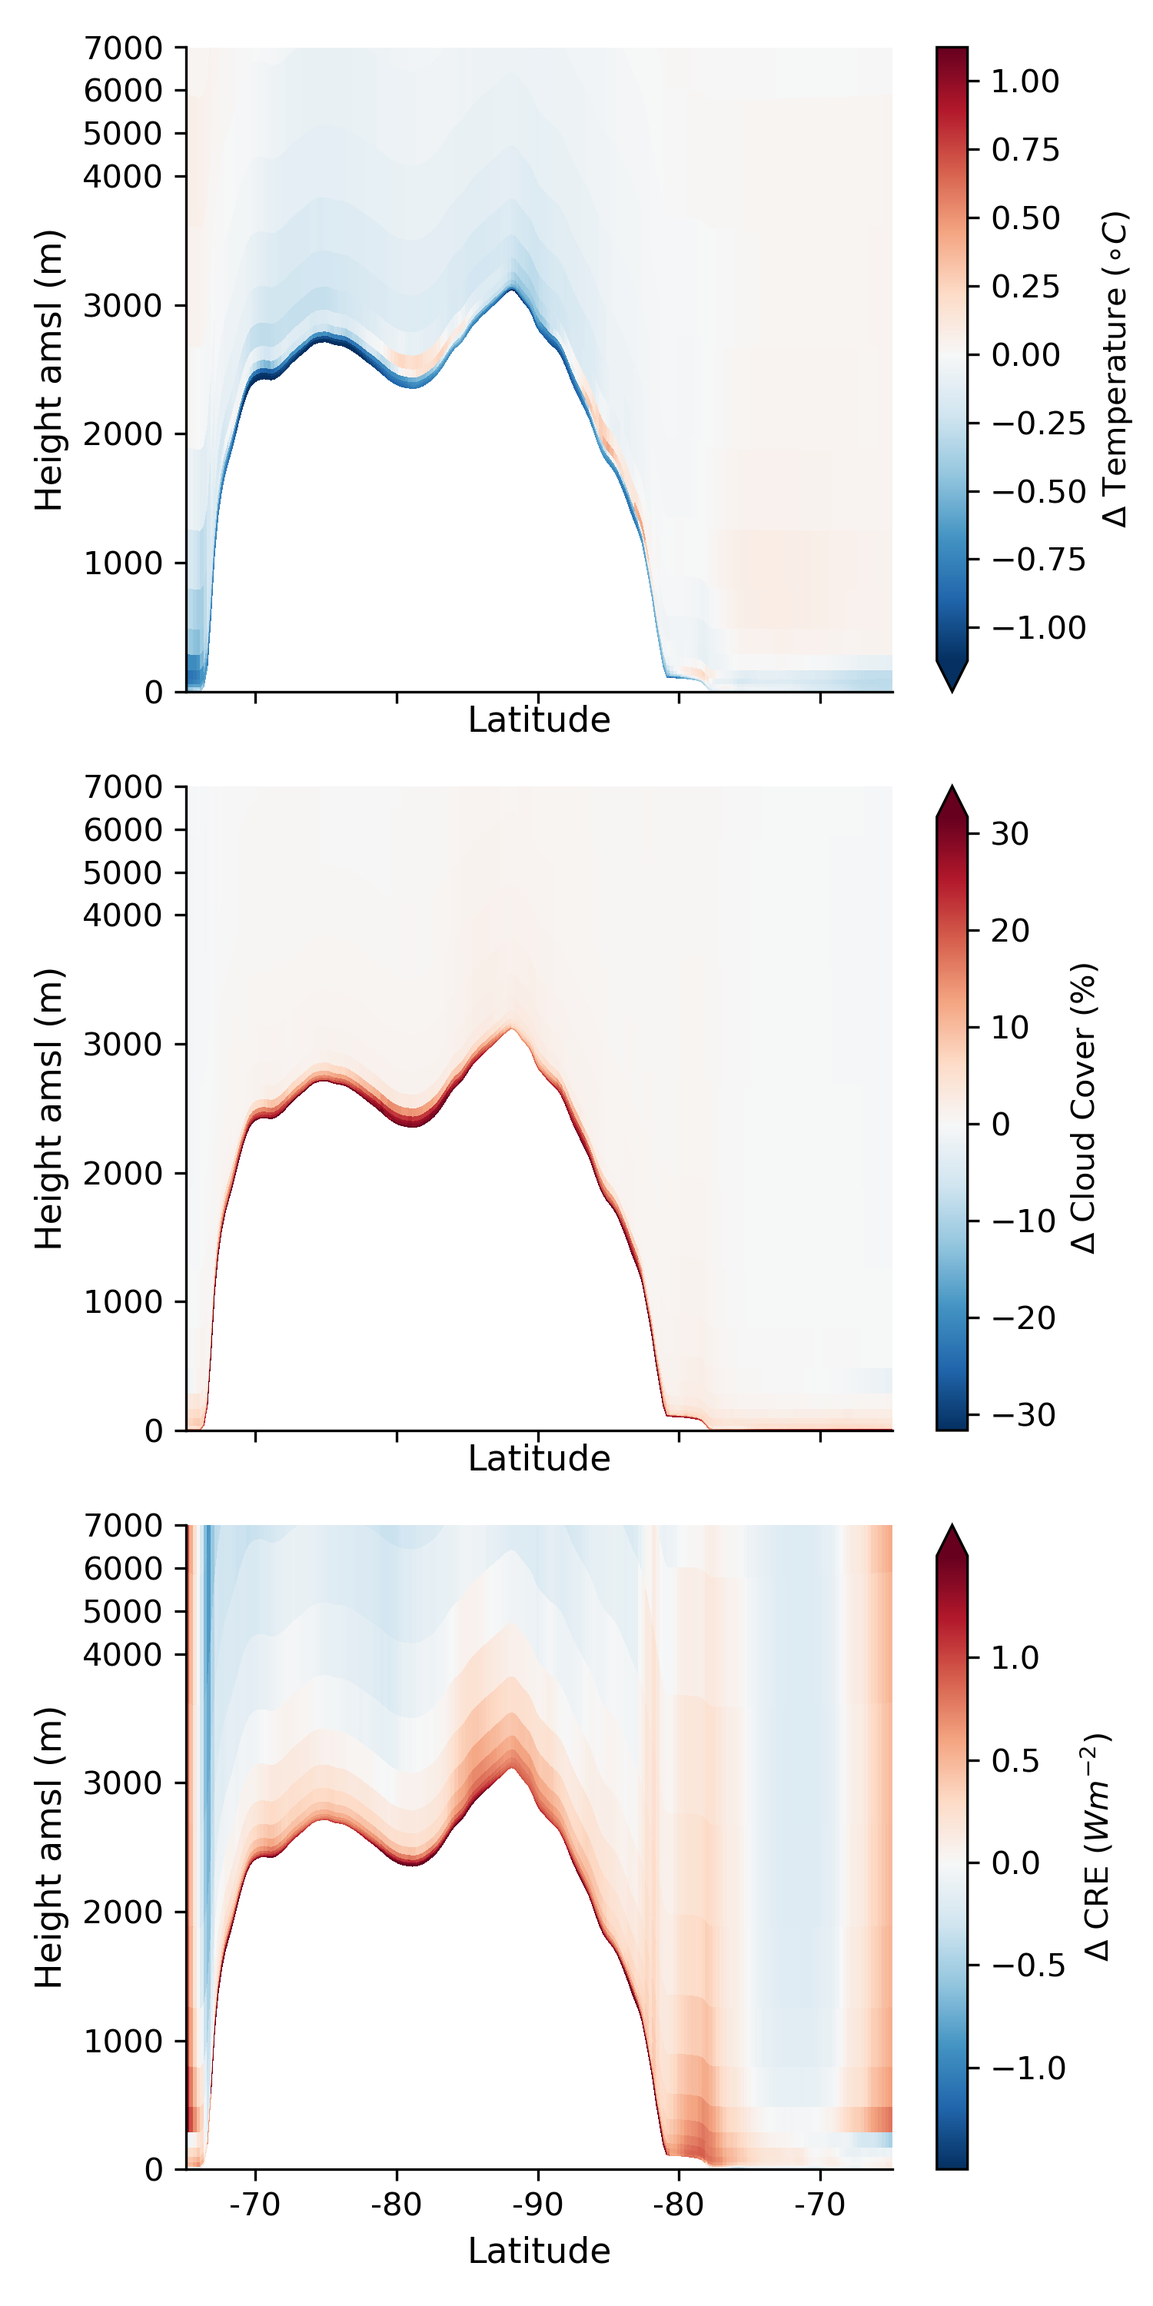
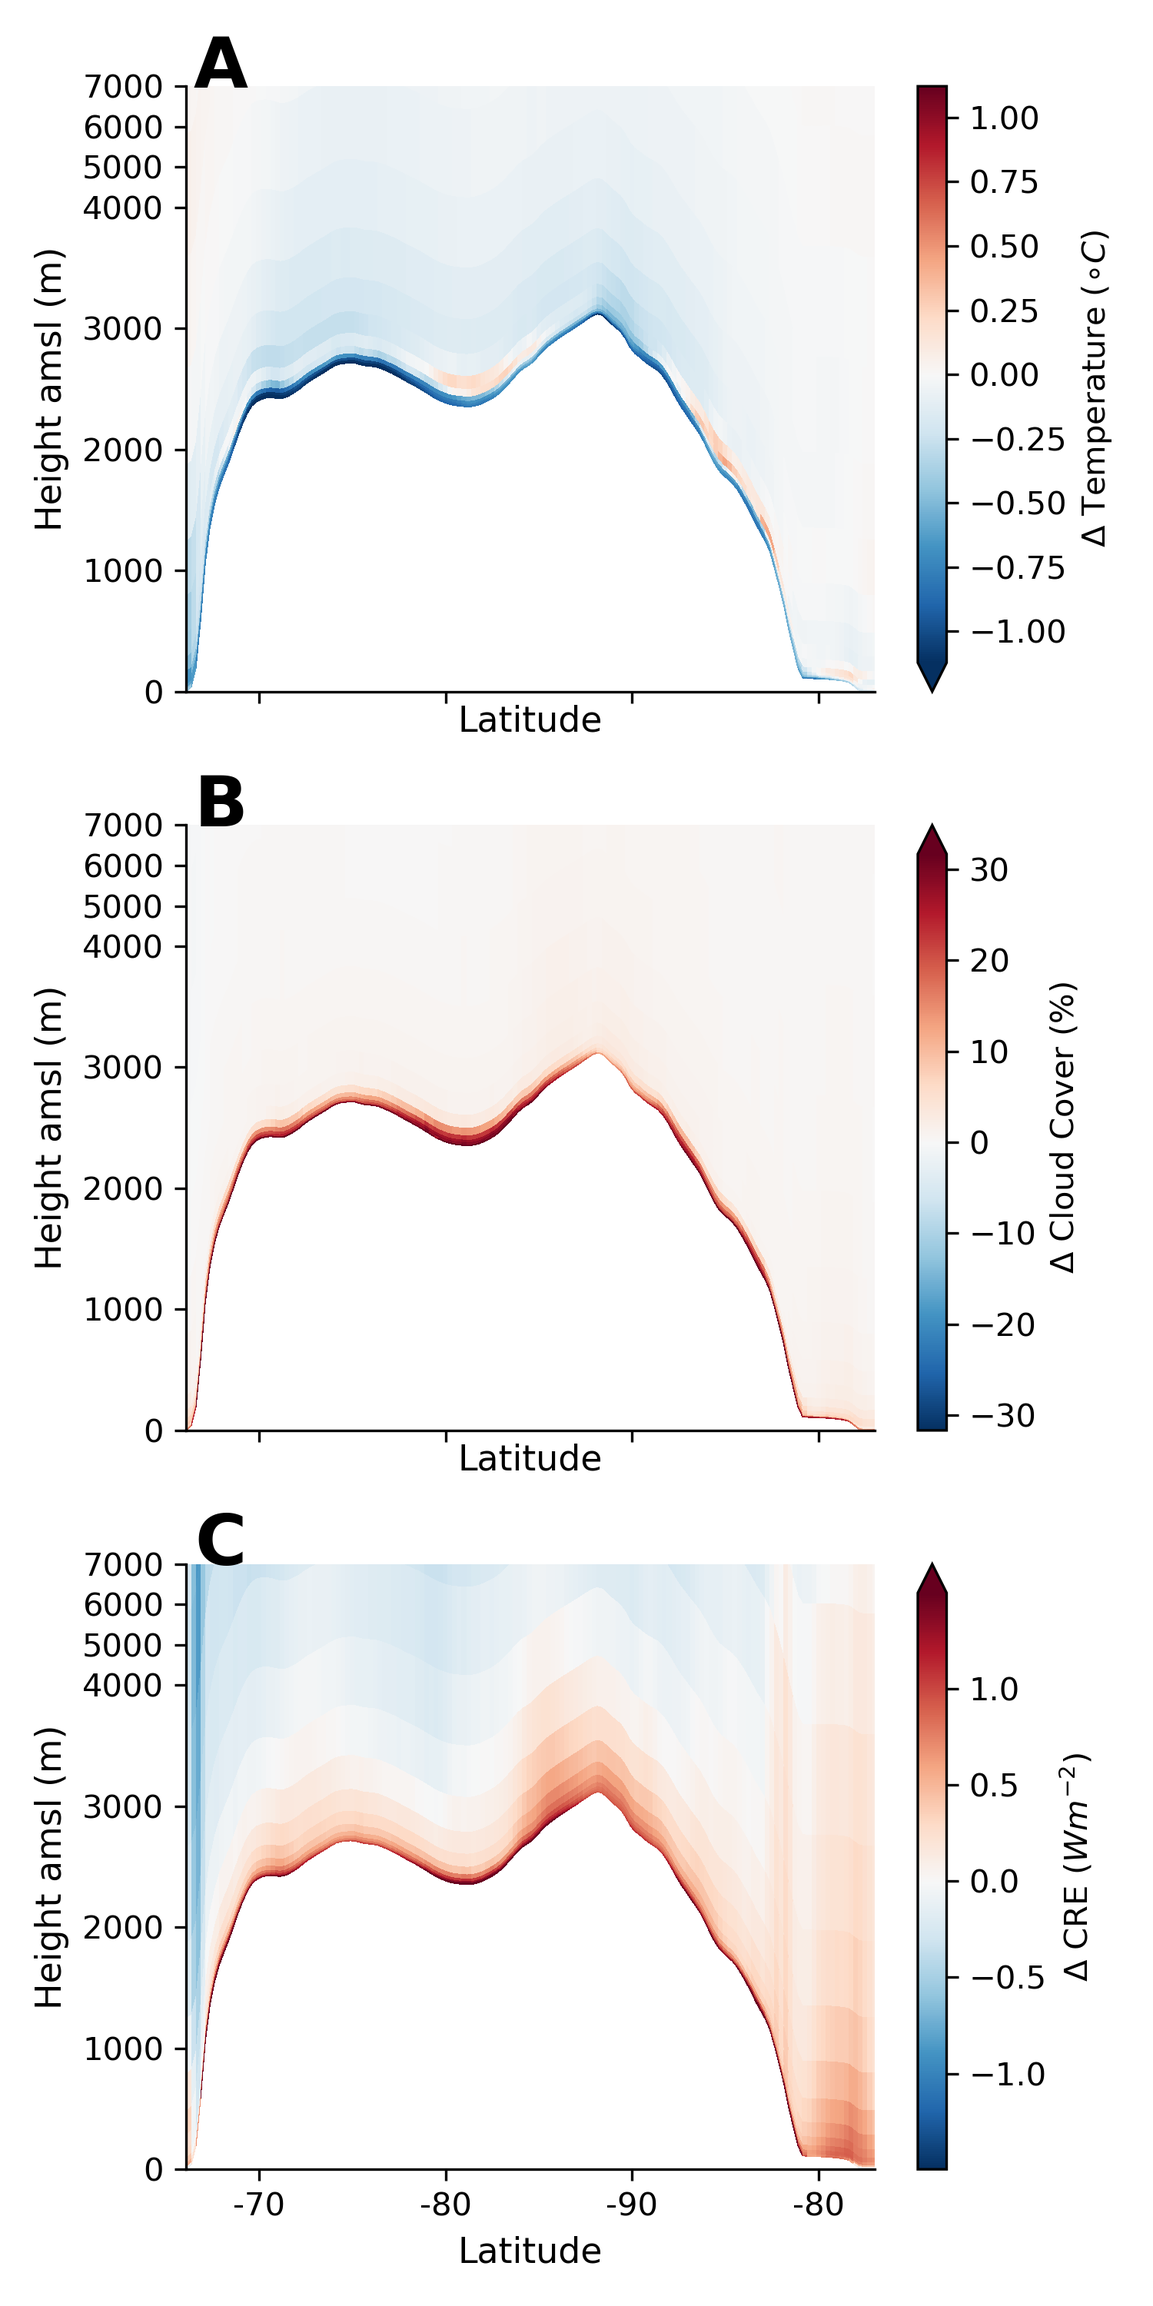
FINAL ANALYSIS

diff --git a/Fig4/2d_microph.py b/Fig4/2d_microph.py
@@ -12,6 +12,9 @@ import matplotlib.path as mpath
 
 import cartopy.feature as feat
 
+#    xr.plot.contour(ground, levels=1, colors='black', linewidths=0.2)
+#    xr.plot.contour(ds_grid.SOL, levels=1, colors='black', linewidths=0.2)
+
 # file_str = '/uio/lagringshotell/geofag/projects/miphclac/shofer/MAR/case_study_BS_2009/'
 # file_str = '/home/shofer/Dropbox/Academic/Data/Blowing_snow/'
 # file_str = '/home/sh16450/Dropbox/Academic/Data/Blowing_snow/'
@@ -66,6 +69,7 @@ ds_grid = xr.Dataset({'RIGNOT': (['y', 'x'], MAR_grid.RIGNOT.values),
                       'ICE': (['y', 'x'], MAR_grid.ICE.values),
                       'AIS': (['y', 'x'], MAR_grid.AIS.values),
                       'GROUND': (['y', 'x'], MAR_grid.GROUND.values),
+                      'SOL': (['y', 'x'], MAR_grid.SOL.values),
                       'AREA': (['y', 'x'], MAR_grid.AREA.values),
                       'ROCK': (['y', 'x'], MAR_grid.ROCK.values)},
                      coords={'x': (['x'], ds_nobs_CC.X),
@@ -97,13 +101,13 @@ dh = (ds_grid['x'].values[0] - ds_grid['x'].values[1]) / 2.
 
 
 diff_CC = (ds_bs_CC - ds_nobs_CC).rename(
-    {'X': 'x', 'Y': 'y'}).isel(x=slice(10, -10), y=slice(10, -10))
+    {'X': 'x', 'Y': 'y'}).where((ground > 0) | (shelf > 0)).isel(x=slice(10, -10), y=slice(10, -10))
 diff_COD = (ds_bs_COD - ds_nobs_COD).rename(
-    {'X': 'x', 'Y': 'y'}).isel(x=slice(10, -10), y=slice(10, -10))
+    {'X': 'x', 'Y': 'y'}).where((ground > 0) | (shelf > 0)).isel(x=slice(10, -10), y=slice(10, -10))
 diff_IWP = (ds_bs_IWP - ds_nobs_IWP).rename(
-    {'X': 'x', 'Y': 'y'}).isel(x=slice(10, -10), y=slice(10, -10))
+    {'X': 'x', 'Y': 'y'}).where((ground > 0) | (shelf > 0)).isel(x=slice(10, -10), y=slice(10, -10))
 diff_LWP = (ds_bs_LWP - ds_nobs_LWP).rename(
-    {'X': 'x', 'Y': 'y'}).isel(x=slice(10, -10), y=slice(10, -10))
+    {'X': 'x', 'Y': 'y'}).where((ground > 0) | (shelf > 0)).isel(x=slice(10, -10), y=slice(10, -10))
 
 # Weighted by difference in Cloud cover bc values are just monthly means
 diff_weighted_LWP = diff_LWP.CWP - (diff_CC.CC * diff_LWP.CWP)
@@ -155,7 +159,37 @@ CC_three = diff_CC.CC.where((ais == 0) & (shelf == 0)).mean() * 100
 print('{}: Grounded={:.2f}, Shelves={:.2f}, Ocean={:.2f}'.format(
     'CC', CC_one.values, CC_two.values, CC_three.values))
 
-# oh no I think I do .sum of var*grd_msk.values*35*35 and then divide it by the grounded area (in km2)
+
+# Print average and std for mean of absolute values
+mean_COD = ds_bs_COD.COD.rename(
+    {'X': 'x', 'Y': 'y'}).where((ground > 0) | (shelf > 0)).mean()
+mean_IWP = (ds_bs_IWP.IWP.rename(
+    {'X': 'x', 'Y': 'y'}).where((ground > 0) | (shelf > 0)).mean()) * 1000
+mean_LWP = (ds_bs_LWP.CWP.rename(
+    {'X': 'x', 'Y': 'y'}).where((ground > 0) | (shelf > 0)).mean()) * 1000
+
+print('{}: COD={:.2f}, IWP={:.2f}, LWP={:.2f}'.format(
+    'Means over shelf+ground', mean_COD.values, mean_IWP.values, mean_LWP.values))
+# Print average and std for mean of absolute values
+mean_COD_ = ds_bs_COD.COD.rename(
+    {'X': 'x', 'Y': 'y'}).where(ground == 1).mean()
+mean_IWP_ = (ds_bs_IWP.IWP.rename(
+    {'X': 'x', 'Y': 'y'}).where(ground == 1).mean()) * 1000
+mean_LWP_ = (ds_bs_LWP.CWP.rename(
+    {'X': 'x', 'Y': 'y'}).where(ground == 1).mean()) * 1000
+
+print('{}: COD={:.2f}, IWP={:.2f}, LWP={:.2f}'.format(
+    'Means over ground', mean_COD_.values, mean_IWP_.values, mean_LWP_.values))
+
+mean_COD = ds_bs_COD.COD.rename(
+    {'X': 'x', 'Y': 'y'}).where(shelf == 1).mean()
+mean_IWP = (ds_bs_IWP.IWP.rename(
+    {'X': 'x', 'Y': 'y'}).where(shelf == 1).mean()) * 1000
+mean_LWP = (ds_bs_LWP.CWP.rename(
+    {'X': 'x', 'Y': 'y'}).where(shelf == 1).mean()) * 1000
+
+print('{}: COD={:.2f}, IWP={:.2f}, LWP={:.2f}'.format(
+    'Means over shelves', mean_COD.values, mean_IWP.values, mean_LWP.values))
 
 
 def xymean(mvar2d, marea2d):
@@ -215,22 +249,22 @@ for i in range(4):
 
 # PLOT EVERYTHING
 
-(diff_CC.CC * 100).plot.pcolormesh('x', 'y', transform=proj, ax=ax1,
+(diff_CC.CC * 100).plot.pcolormesh('x', 'y', transform=proj, ax=ax1, cmap='RdBu_r',
                                    robust=True, cbar_kwargs={
                                        'label': r'$\Delta$ CC (%)', 'shrink': 1, 'orientation': 'horizontal',
-                                       'ticks': [-20, -10, 0, 10, 20], 'pad': 0.05, 'extend': 'both'})
-diff_weighted_COD.plot.pcolormesh('x', 'y', transform=proj, ax=ax2, robust=True, cbar_kwargs={
-                                  'label': r'$\Delta$ COD', 'shrink': 1, 'orientation': 'horizontal',
-                                  'pad': 0.05, 'fraction': 0.15, 'extend': 'both'})
+                                       'ticks': [-20, -10, 0, 10, 20], 'pad': 0.05, 'extend': 'both'}, vmin=-25, vmax=25)
+diff_weighted_COD.plot.pcolormesh('x', 'y', transform=proj, ax=ax2, robust=True, cmap='RdBu_r', cbar_kwargs={
+    'label': r'$\Delta$ COD', 'shrink': 1, 'orientation': 'horizontal',
+    'pad': 0.05, 'fraction': 0.15, 'extend': 'both'}, vmin=-0.02, vmax=0.02)
 
 (diff_weighted_LWP * 1000).plot.pcolormesh('x', 'y', transform=proj, ax=ax3,
                                            robust=True, cbar_kwargs={
                                                'label': r'$\Delta$ LWP (g/kg)', 'shrink': 1, 'orientation': 'horizontal',
-                                                'pad': 0.05, 'extend': 'both'})
-(diff_weighted_IWP * 1000).plot.pcolormesh('x', 'y', transform=proj, ax=ax4,
+                                               'pad': 0.05, 'extend': 'both'})
+(diff_weighted_IWP * 1000).plot.pcolormesh('x', 'y', transform=proj, ax=ax4, cmap='RdBu_r',
                                            robust=True, cbar_kwargs={
                                                'label': r'$\Delta$ IWP (g/kg)', 'shrink': 1, 'orientation': 'horizontal',
-                                                'pad': 0.05, 'extend': 'both'})
+                                               'pad': 0.05, 'extend': 'both'}, vmin=-25, vmax=25)
 #
 # cont = ax[0].pcolormesh(diff_CC['x'], diff_CC['y'],
 #                         (diff_CC.CC)*100,
@@ -246,8 +280,11 @@ diff_weighted_COD.plot.pcolormesh('x', 'y', transform=proj, ax=ax2, robust=True,
 #                          trend_CC.slope*30, transform=ccrs.PlateCarree(), vmin=-15, vmax=15, cmap='RdBu_r')
 letters = ['A', 'B', 'C', 'D']
 for i in range(4):
-    ax[i].add_feature(feat.COASTLINE.with_scale(
-        '50m'), zorder=1, edgecolor='black')
+    xr.plot.contour(ds_grid.SOL, levels=1, colors='black',
+                    linewidths=0.4, transform=proj, ax=ax[i])
+    xr.plot.contour(ground, levels=1, colors='black', linewidths=0.4, ax=ax[i])
+    # ax[i].add_feature(feat.COASTLINE.with_scale(
+    #    '50m'), zorder=1, edgecolor='black')
     ax[i].set_title(names[i], fontsize=16)
     ax[i].text(0.04, 1.02, letters[i], fontsize=22, va='center', ha='center',
                transform=ax[i].transAxes, fontdict={'weight': 'bold'})

diff --git a/clouds_calipso.py b/clouds_calipso.py
@@ -6,7 +6,10 @@ from scipy import stats
 import matplotlib.path as mpath
 import cartopy.crs as ccrs
 import cartopy.feature
+import matplotlib.gridspec as gridspec
 import xesmf as xe
+
+import cartopy.feature as feat
 
 # =========== LOAD ERA5, MAR_noBS, MAR_BS, Cloudsat =======================
 
@@ -60,9 +63,10 @@ ds_grid = xr.Dataset({'RIGNOT': (['y', 'x'], MAR_grid.RIGNOT.values),
                       'AIS': (['y', 'x'], MAR_grid.AIS.values),
                       'GROUND': (['y', 'x'], MAR_grid.GROUND.values),
                       'AREA': (['y', 'x'], MAR_grid.AREA.values),
+                      'SOL': (['y', 'x'], MAR_grid.SOL.values),
                       'ROCK': (['y', 'x'], MAR_grid.ROCK.values)},
-                     coords={'x': (['x'], ds_nobs_CC.x),
-                             'y': (['y'], ds_nobs_CC.y)})
+                     coords={'x': (['x'], ds_nobs_CC.x * 1000),
+                             'y': (['y'], ds_nobs_CC.y * 1000)})
 
 ais = ds_grid['AIS'].where(ds_grid)['AIS'] > 0  # Only AIS=1, other islands  =0
 # Ice where ICE mask >= 30% (ICE[0-100%], dividing by 100 in the next ligne)
@@ -85,18 +89,27 @@ sh = ds_grid['SH']
 
 dh = (ds_grid['x'].values[0] - ds_grid['x'].values[1]) / 2.
 
-
+msk = ds_grid['SOL'].where(ds_grid['SOL'] == 4)
 # =========== COMPUTE THE MEAN OVER THE SAME TIME PERIOD ==================
 BS = ds_bs_CC.mean(dim='TIME')
 # Add LAT LON to MAR data
 BS['lat'] = ds_grid.LAT
 BS['lon'] = ds_grid.LON
 BS['RIGNOT'] = ds_grid.RIGNOT.where(ds_grid.RIGNOT > 0)
+BS['shelf'] = shelf
+BS['ground'] = ground
+BS['msk'] = msk
+BS['SOL'] = ds_grid.SOL
+
 
 NOBS = ds_nobs_CC.mean(dim='TIME')
 NOBS['lat'] = ds_grid.LAT
 NOBS['lon'] = ds_grid.LON
 NOBS['RIGNOT'] = ds_grid.RIGNOT.where(ds_grid.RIGNOT > 0)
+NOBS['shelf'] = shelf
+NOBS['ground'] = ground
+NOBS['msk'] = msk
+NOBS['SOL'] = ds_grid.SOL
 
 
 ERA = cloud_data_ERA.mean(dim='time')
@@ -130,5 +143,89 @@ regrid_cloudsat = regridder_cloudsat(cloudsat.transpose())
 
 # ========== COMPUTE THE DIFFERENCES BETWEEN CLOUDSAT and ERA,MAR, MARBS ==
 
-diff_test = regrid_BS.CC - regrid_cloudsat
-diff_test_nobs = regrid_NOBS.CC - regrid_cloudsat
+diff_test = (regrid_BS.CC - regrid_cloudsat).where((regrid_BS.shelf > 0)
+                                                   | (regrid_BS.ground > 0))
+diff_test_nobs = (regrid_NOBS.CC - regrid_cloudsat).where((regrid_BS.shelf > 0)
+                                                          | (regrid_BS.ground > 0))
+diff_test_ERA = (regrid_ERA - regrid_cloudsat).where((regrid_BS.shelf > 0)
+                                                     | (regrid_BS.ground > 0))
+
+# ============ PLOTTING ROUTINE ========================
+# Plotting routines
+plt.close('all')
+proj = ccrs.SouthPolarStereo()
+fig = plt.figure(figsize=(14, 7))
+spec2 = gridspec.GridSpec(ncols=3, nrows=1, figure=fig)
+ax1 = fig.add_subplot(spec2[0, 0], projection=proj)
+ax2 = fig.add_subplot(spec2[0, 1], projection=proj)
+# plt.setp(ax2.get_yticklabels(), visible=False)
+ax3 = fig.add_subplot(spec2[0, 2], projection=proj)
+
+# PLOT EVERYTHING
+
+
+ax = [ax1, ax2, ax3]
+names = ['No Blowing Snow', 'Blowing Snow', 'ERA5']
+for i in range(3):
+    # Limit the map to -60 degrees latitude and below.
+    ax[i].set_extent([-180, 180, -90, -60], ccrs.PlateCarree())
+
+    ax[i].add_feature(feat.LAND)
+    # ax[i].add_feature(feat.OCEAN)
+
+    ax[i].gridlines()
+
+    # Compute a circle in axes coordinates, which we can use as a boundary
+    # for the map. We can pan/zoom as much as we like - the boundary will be
+    # permanently circular.
+    theta = np.linspace(0, 2 * np.pi, 100)
+    center, radius = [0.5, 0.5], 0.5
+    verts = np.vstack([np.sin(theta), np.cos(theta)]).T
+    circle = mpath.Path(verts * radius + center)
+
+    ax[i].set_boundary(circle, transform=ax[i].transAxes)
+
+cmap = 'YlGnBu_r'
+cont = ax[0].pcolormesh(diff_test_nobs['lon'], diff_test_nobs['lat'],
+                        diff_test_nobs,
+                        transform=ccrs.PlateCarree(), vmin=-1, vmax=1, cmap='RdBu_r')
+cont2 = ax[1].pcolormesh(diff_test['lon'], diff_test['lat'],
+                         diff_test,
+                         transform=ccrs.PlateCarree(), vmin=-1, vmax=1, cmap='RdBu_r')
+cont3 = ax[2].pcolormesh(diff_test_ERA['lon'], diff_test_ERA['lat'],
+                         diff_test_ERA, transform=ccrs.PlateCarree(), vmin=-1, vmax=1, cmap='RdBu_r')
+# cont2 = ax[1].pcolormesh(trend_CC['lon'], trend_CC['lat'],
+#                          trend_CC.slope*30, transform=ccrs.PlateCarree(), vmin=-15, vmax=15, cmap='RdBu_r')
+
+#    xr.plot.contour(ground, levels=1, colors='black', linewidths=0.2)
+#    xr.plot.contour('x','y',ds_grid.SOL, levels=1, colors='black', linewidths=0.2, ax=ax[1], transform=proj)
+
+letters = ['A', 'B', 'C']
+for i in range(3):
+    xr.plot.contour(ds_grid.SOL, levels=1, colors='black',
+                    linewidths=0.4, transform=proj, ax=ax[i])
+    xr.plot.contour(ground, levels=1, colors='black', linewidths=0.4, ax=ax[i])
+    # ax[i].add_feature(feat.COASTLINE.with_scale(
+    #    '50m'), zorder=1, edgecolor='black')
+
+    ax[i].set_title(names[i], fontsize=16)
+    ax[i].text(0.04, 1.02, letters[i], fontsize=22, va='center', ha='center',
+               transform=ax[i].transAxes, fontdict={'weight': 'bold'})
+# fig.canvas.draw()
+fig.tight_layout()
+
+cb = fig.colorbar(cont3, ax=ax, ticks=list(
+    np.arange(-1, 1.5, 0.2)), shrink=0.85, orientation='horizontal')
+cb.set_label('Cloud Cover Difference (%)', fontsize=16)
+cb.ax.tick_params(labelsize=11)
+
+plt.subplots_adjust(left=0.02, right=0.98, top=0.99, bottom=0.24)
+# fig.colorbar(cont2, ax=ax[1], ticks=list(
+#     np.arange(-15, 15.5, 3)), shrink=0.8)
+# cbar = fig.colorbar(cont, ax=ax, ticks=[0, 10, 20, 30, 40, 50, 60, 70, 80, 90, 100],
+#                    orientation = 'horizontal', fraction = 0.13, pad = 0.01, shrink = 0.8)
+# cbar.set_label(
+#    'Average DJF cloud cover 2002-2015 (%)', fontsize=18)
+
+fig.savefig('/projects/NS9600K/shofer/blowing_snow/Calipso_difference.png',
+            format='PNG', dpi=300)

diff --git a/Fig4/2d_SEB.py b/Fig4/2d_SEB.py
@@ -74,11 +74,12 @@ ds_grid = xr.Dataset({'RIGNOT': (['y', 'x'], MAR_grid.RIGNOT.values),
                       'LON': (['y', 'x'], MAR_grid.LON.values),
                       'ICE': (['y', 'x'], MAR_grid.ICE.values),
                       'AIS': (['y', 'x'], MAR_grid.AIS.values),
+                      'SOL': (['y', 'x'], MAR_grid.SOL.values),
                       'GROUND': (['y', 'x'], MAR_grid.GROUND.values),
                       'AREA': (['y', 'x'], MAR_grid.AREA.values),
                       'ROCK': (['y', 'x'], MAR_grid.ROCK.values)},
-                     coords={'x': (['x'], ds_nobs_CC.X),
-                             'y': (['y'], ds_nobs_CC.Y)})
+                     coords={'x': (['x'], ds_nobs_LWD.X),
+                             'y': (['y'], ds_nobs_LWD.Y)})
 
 ais = ds_grid['AIS'].where(ds_grid)['AIS'] > 0  # Only AIS=1, other islands  =0
 # Ice where ICE mask >= 30% (ICE[0-100%], dividing by 100 in the next ligne)
@@ -106,13 +107,13 @@ dh = (ds_grid['x'].values[0] - ds_grid['x'].values[1]) / 2.
 
 
 diff_SWD = (ds_bs_SWD - ds_nobs_SWD).rename(
-    {'X': 'x', 'Y': 'y'}).isel(x=slice(10, -10), y=slice(10, -10))
+    {'X': 'x', 'Y': 'y'}).where((ground > 0) | (shelf > 0)).isel(x=slice(10, -10), y=slice(10, -10))
 diff_LWD = (ds_bs_LWD - ds_nobs_LWD).rename(
-    {'X': 'x', 'Y': 'y'}).isel(x=slice(10, -10), y=slice(10, -10))
+    {'X': 'x', 'Y': 'y'}).where((ground > 0) | (shelf > 0)).isel(x=slice(10, -10), y=slice(10, -10))
 diff_SWN = (ds_bs_SWN - ds_nobs_SWN).rename(
-    {'X': 'x', 'Y': 'y'}).isel(x=slice(10, -10), y=slice(10, -10))
+    {'X': 'x', 'Y': 'y'}).where((ground > 0) | (shelf > 0)).isel(x=slice(10, -10), y=slice(10, -10))
 diff_LWN = (ds_bs_LWN - ds_nobs_LWN).rename(
-    {'X': 'x', 'Y': 'y'}).isel(x=slice(10, -10), y=slice(10, -10))
+    {'X': 'x', 'Y': 'y'}).where((ground > 0) | (shelf > 0)).isel(x=slice(10, -10), y=slice(10, -10))
 
 
 diff_SWD['LAT'] = ds_grid.LAT
@@ -208,8 +209,11 @@ cont3 = ax[2].pcolormesh(abs_diff['x'], abs_diff['y'],
 #                          trend_CC.slope*30, transform=ccrs.PlateCarree(), vmin=-15, vmax=15, cmap='RdBu_r')
 letters = ['A', 'B', 'C']
 for i in range(3):
-    ax[i].add_feature(feat.COASTLINE.with_scale(
-        '50m'), zorder=1, edgecolor='black')
+    xr.plot.contour(ds_grid.SOL, levels=1, colors='black',
+                    linewidths=0.4, transform=proj, ax=ax[i])
+    xr.plot.contour(ground, levels=1, colors='black', linewidths=0.4, ax=ax[i])
+    # ax[i].add_feature(feat.COASTLINE.with_scale(
+    #     '50m'), zorder=1, edgecolor='black')
     ax[i].set_title(names[i], fontsize=16)
     ax[i].text(0.04, 1.02, letters[i], fontsize=22, va='center', ha='center',
                transform=ax[i].transAxes, fontdict={'weight': 'bold'})

diff --git a/Fig4/cross_section_longterm.py b/Fig4/cross_section_longterm.py
@@ -252,7 +252,7 @@ height_scaled = scale(
 # Replace only values where height is greater than 4000
 # mean_masl = mean_masl.where(mean_masl < 4000).fillna(height_scaled)
 mean_masl = mean_masl_merged.where(
-    mean_masl_merged < 4000).fillna(height_scaled)ea level
+    mean_masl_merged < 4000).fillna(height_scaled)
 
 # ax.plot(data_scaled)
 # ==================================================================
@@ -289,6 +289,12 @@ for ax in axs.flatten():
     ax.set_ylabel('Height amsl (m)', fontsize=fs)
     ax.set_xlabel('Latitude', fontsize=fs)
     ax.set_title('')
+    ax.set_xlim(-113.9, -77)  # -67 to -77 in real coordinates
+
+letters = ['A', 'B', 'C']
+for i in range(3):
+    axs[i].text(0.05, 1.03, letters[i], fontsize=22, va='center', ha='center',
+                transform=axs[i].transAxes, fontdict={'weight': 'bold'})
 
 fig.tight_layout()
 sns.despine()
@@ -326,11 +332,11 @@ fig, axs = plt.subplots(
 # Set the y-ticks to a custom scale
 for ax in axs.flatten():
     # ax.set_yticks([0, 1000, 2000, 3000, 4000, 4333,
-                  # 4666, 5000, 5333, 5666, 6000, 6333])
+    # 4666, 5000, 5333, 5666, 6000, 6333])
     #ax.set_ylim(0, 5000)
     # Set the labels to the actual values
     # ax.set_yticklabels(["0", "1000", "2000", "3000", "4000",
-                        # "5000", "6000", "7000", "8000", "9000", "10000", "11000"])
+    # "5000", "6000", "7000", "8000", "9000", "10000", "11000"])
     ax.set_xticks([-110, -100, -90, -80, -70])
     ax.set_xticklabels(["-70", "-80", "-90", "-80", "-70"])
 # ax = axs.ravel().tolist()

diff --git a/Fig4/cross_section.py b/Fig4/cross_section.py
@@ -63,8 +63,8 @@ regridder = xe.Regridder(
     ds_in, ds_grid_new, 'bilinear', reuse_weights=True)
 # Regrid the data to the 0.25x0.25 grid
 ds_TT = regridder(ds_in)
-ds_LQS = regridder((diff.CC3D*100).assign_coords({'lat': ds_bs.LAT, 'lon': ds_bs.LON,
-                                                  'x': ds_bs.X, 'y': ds_bs.Y}))
+ds_LQS = regridder((diff.CC3D * 100).assign_coords({'lat': ds_bs.LAT, 'lon': ds_bs.LON,
+                                                    'x': ds_bs.X, 'y': ds_bs.Y}))
 ds_height = regridder(layer_agl.assign_coords({'lat': ds_bs.LAT, 'lon': ds_bs.LON,
                                                'x': ds_bs.X, 'y': ds_bs.Y}))
 # Create the cross section by using xarray interpolation routine
